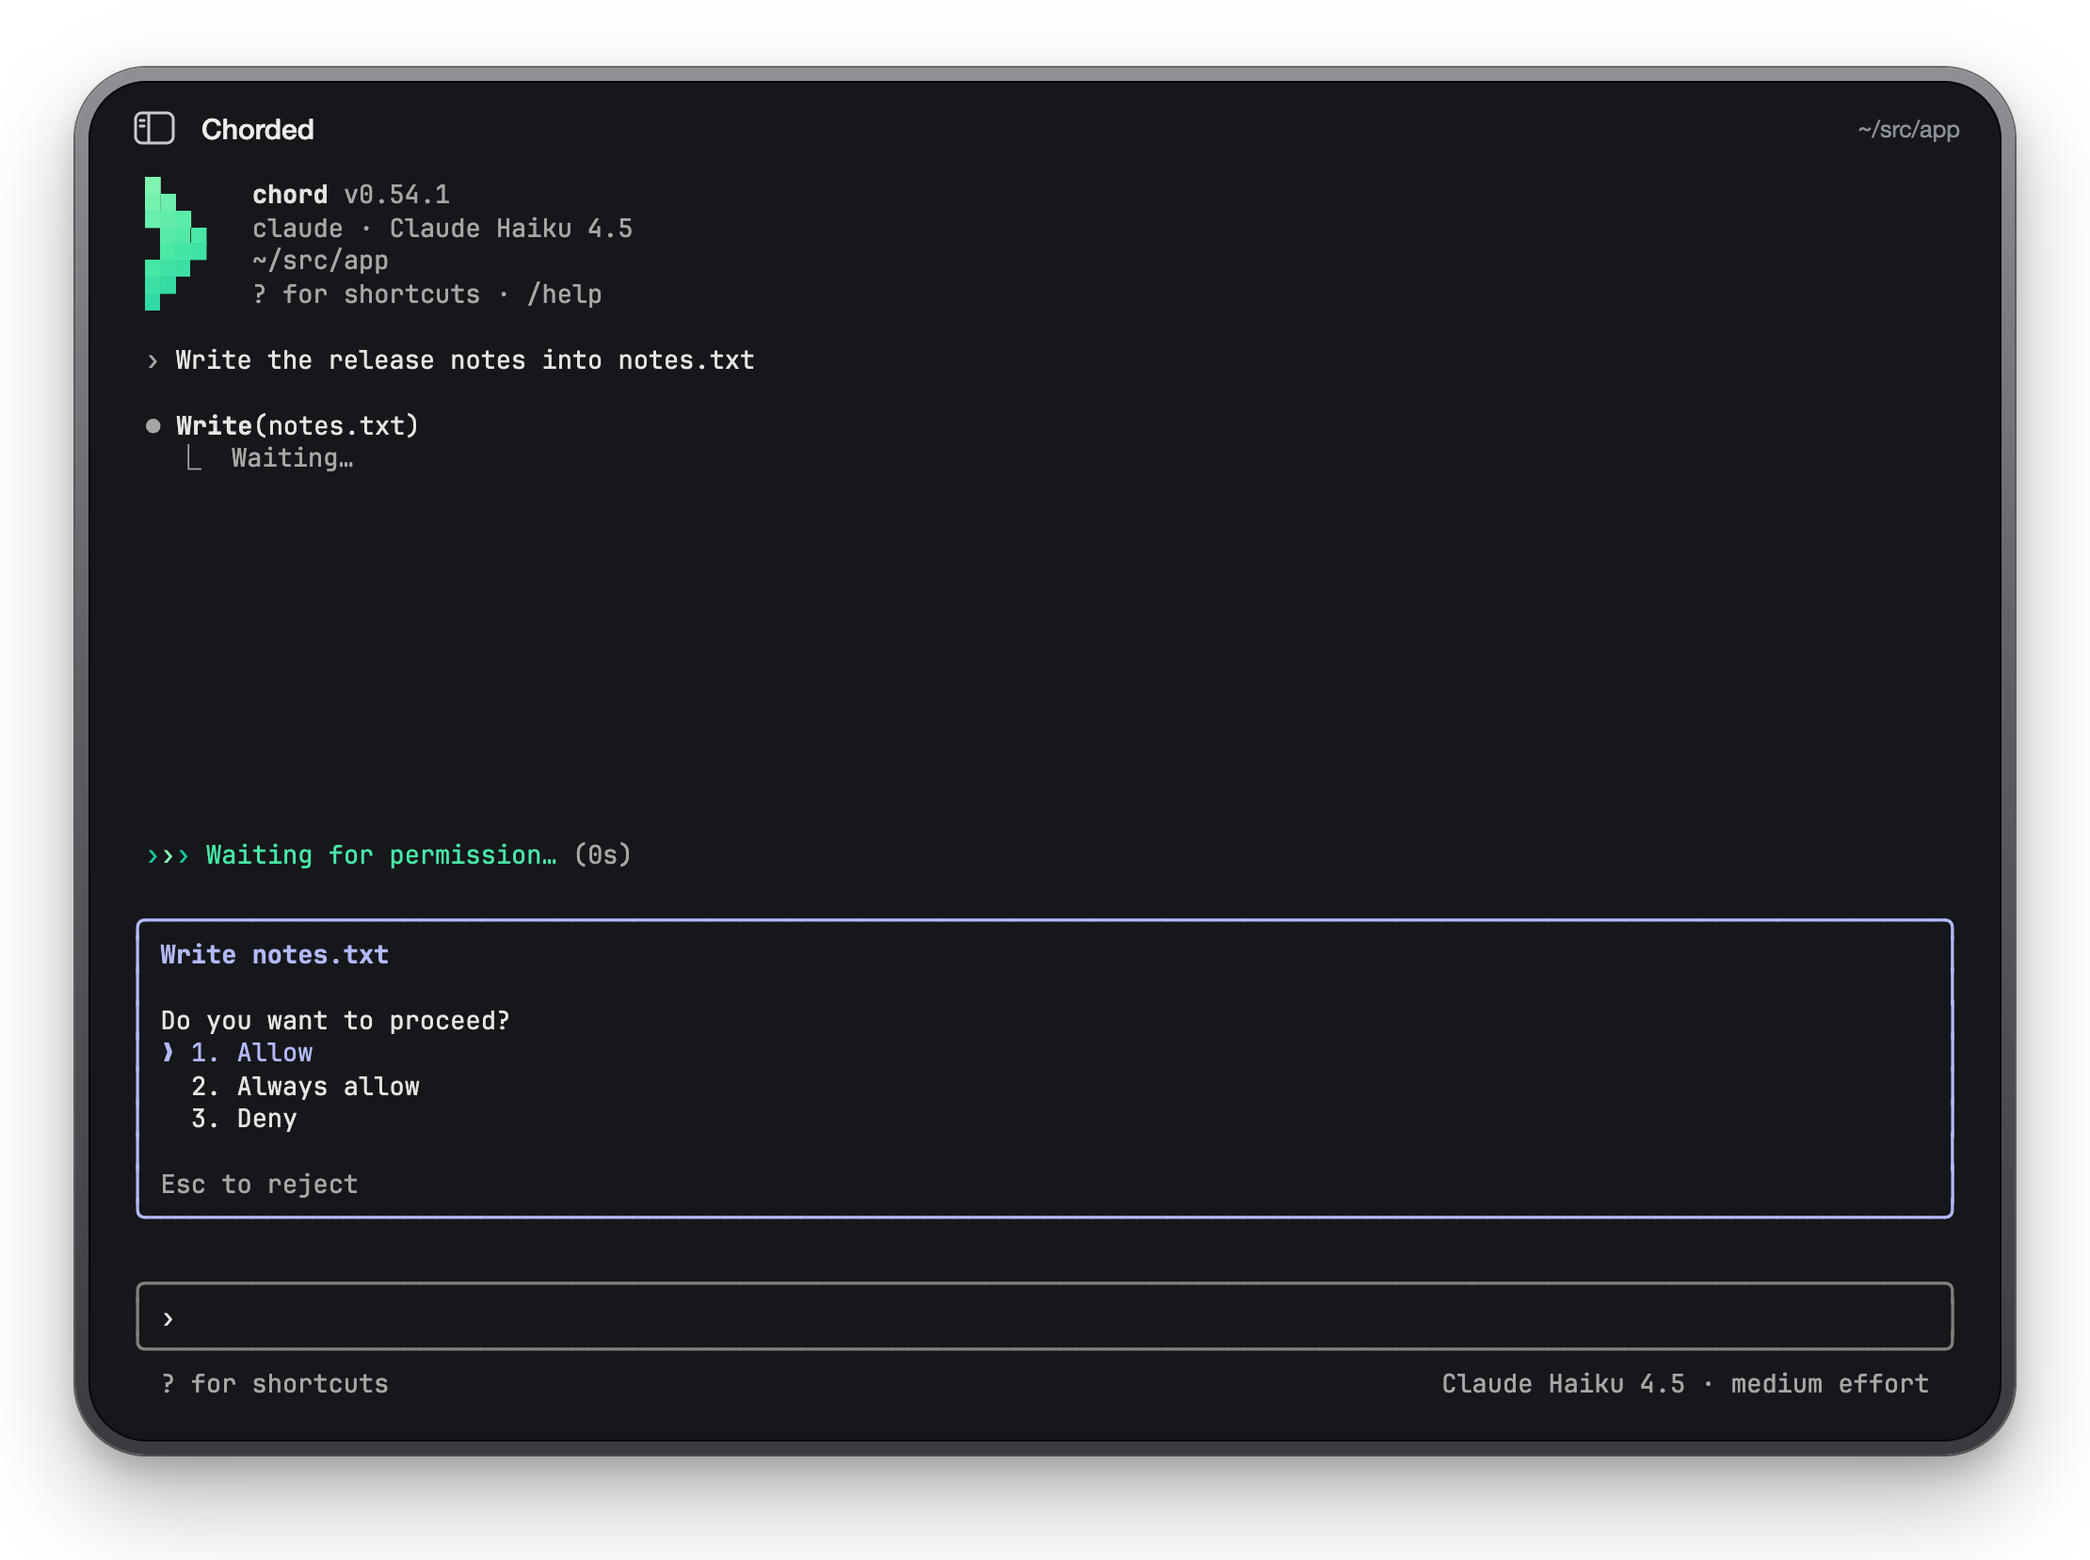
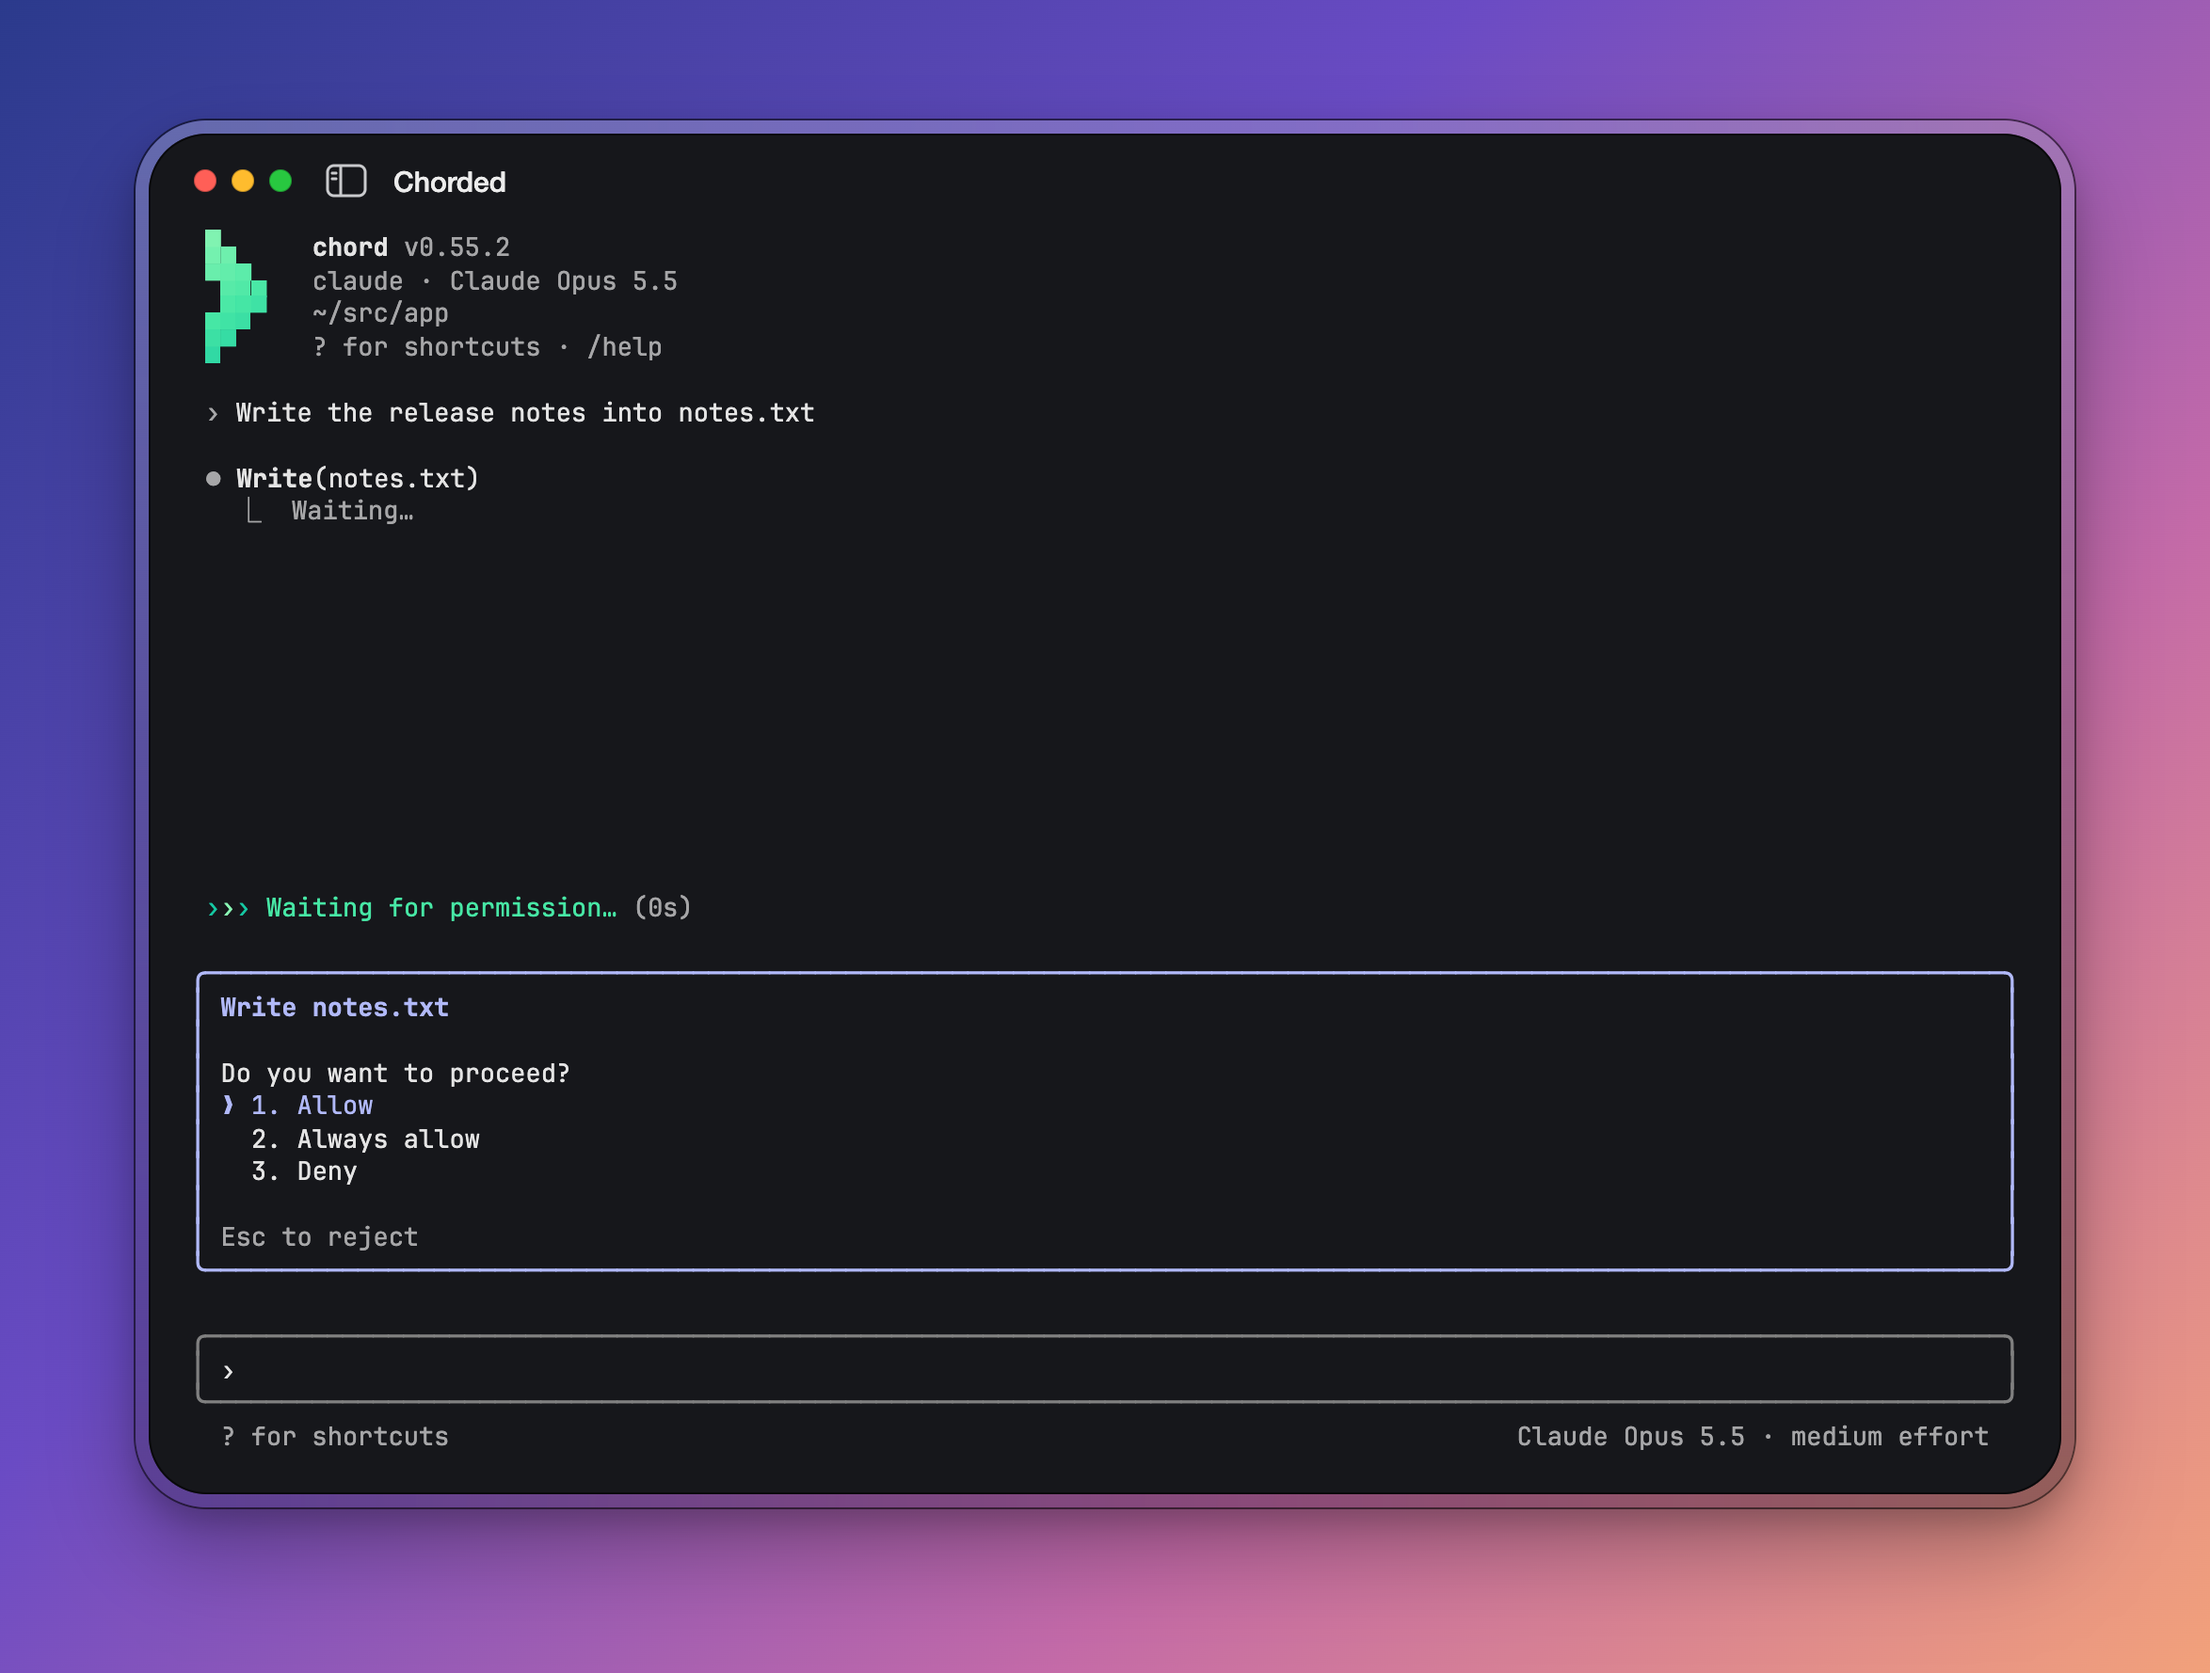
docs(readme): every screenshot retaken in R1's look, on the models chosen (CHD-407 R2)
The README's shots all take tabs.png's window now, on the fake named
claude and codex on Claude Opus 5.5 and GPT-6.1 Sol. The team run shows
its reviewer: the fake's lead opens the members --lead-opens names, the
shots naming all three, and a reviewer waits for the diff. The proposal
proposes the shots' team in short from a file beside the script, through
--propose-team, so the whole of it, models and all, fits the frame. The
fake's defaults, which the tests read, are as they were.

diff --git a/tests/fixtures/fake_agent/scenarios/teams.ts b/tests/fixtures/fake_agent/scenarios/teams.ts
@@ -8,7 +8,9 @@
  * by its part's role, as main.ts reads it, so the job reads as a real one.
  */
 import * as acp from '@agentclientprotocol/sdk';
-import { STEP_MS } from '../options.ts';
+import { readFileSync } from 'node:fs';
+import { parseTeam } from '../../../../src/teams.ts';
+import { LEAD_OPENS, PROPOSE_TEAM, STEP_MS } from '../options.ts';
 import { pause, type Play, type Turn } from '../turn.ts';
 import { callChord, chordClient } from './chord_tools.ts';
 import { TASK_ARGS } from './tasks.ts';
@@ -46,6 +48,17 @@ export const LEAD_REPORT =
   'coder waits for it and will edit src/parse/tokenize.ts only. I will ' +
   "report when the test fails for the bug's own reason.";
 
+/** What the lead opens `reviewer` with. */
+export const REVIEWER_PROMPT =
+  'Read the diff once coder has one, and the test with it. Edit nothing.';
+
+/** What the lead opens each member with, by its name. */
+const MEMBER_PROMPTS: Readonly<Record<string, string>> = {
+  tester: TESTER_PROMPT,
+  coder: CODER_PROMPT,
+  reviewer: REVIEWER_PROMPT,
+};
+
 /** `tester`'s report to its lead. */
 export const TESTER_REPORT =
   'It fails for that reason: "a" at the end of a line comes back as "a, ' +
@@ -59,6 +72,43 @@ export const TESTER_TO_CODER =
 /** `coder`'s message to `tester`. */
 export const CODER_TO_TESTER =
   'Reading src/parse/tokenize.ts now. Tell me when your test fails.';
+
+/** Names as a sentence says them: `tester and coder`, `a, b and c`. */
+function spoken(names: readonly string[]): string {
+  return names.length < 2
+    ? names.join('')
+    : `${names.slice(0, -1).join(', ')} and ${names.at(-1)}`;
+}
+
+/**
+ * The team `propose` proposes: the one `--propose-team` names, read as
+ * chord reads a team file, else the fake's own.
+ */
+function proposedTeam(): ProposedTeam {
+  if (PROPOSE_TEAM === undefined) {
+    return PROPOSED_TEAM;
+  }
+
+  const read = parseTeam(
+    PROPOSED_TEAM.name,
+    readFileSync(PROPOSE_TEAM, 'utf8'),
+    ['claude', 'codex'],
+  );
+
+  if ('problem' in read) {
+    throw new Error(`--propose-team: ${read.problem}`);
+  }
+
+  const { description, lead, members, body } = read.team;
+
+  return {
+    name: PROPOSED_TEAM.name,
+    description,
+    lead,
+    members,
+    body,
+  };
+}
 
 /** A team agent's part, by its session, as main.ts read it off the prompt. */
 export const teamParts = new Map<
@@ -304,6 +354,9 @@ export const CHANGED_EFFORTS_TEAM = {
   ),
 };
 
+/** A team as `propose_team` takes it: the fake's own, or one read from a file. */
+type ProposedTeam = { readonly name: string } & Record<string, unknown>;
+
 /** What the fake proposes after a proposal, the person's words having changed it. */
 type Again = 'proposeagain' | 'proposeeffortsagain';
 
@@ -323,7 +376,7 @@ const SAVE_BOX_MS = 3_600_000;
  */
 async function propose(
   turn: Turn,
-  team: typeof PROPOSED_TEAM,
+  team: ProposedTeam,
   intro: string,
   again: Again = 'proposeagain',
 ): Promise<acp.StopReason> {
@@ -368,7 +421,7 @@ export const TEAMS = {
   propose: (turn) =>
     propose(
       turn,
-      PROPOSED_TEAM,
+      proposedTeam(),
       'A lead on Opus to split the work, and three members, one for each ' +
         'step. Only one of them edits a file at a time.',
     ),
@@ -447,14 +500,12 @@ export const TEAMS = {
     }
 
     try {
-      await callChord(turn, client, 'open_agent', {
-        member: 'tester',
-        prompt: TESTER_PROMPT,
-      });
-      await callChord(turn, client, 'open_agent', {
-        member: 'coder',
-        prompt: CODER_PROMPT,
-      });
+      for (const member of LEAD_OPENS) {
+        await callChord(turn, client, 'open_agent', {
+          member,
+          prompt: MEMBER_PROMPTS[member] ?? 'Wait for my word.',
+        });
+      }
 
       for (const other of others) {
         await callChord(turn, client, 'send_message', {
@@ -469,7 +520,9 @@ export const TEAMS = {
         to: 'main',
         text: LEAD_REPORT,
       });
-      await turn.say("tester and coder are open; I wait for tester's test.");
+      await turn.say(
+        `${spoken(LEAD_OPENS)} are open; I wait for tester's test.`,
+      );
     } finally {
       await client.close();
     }
@@ -527,6 +580,14 @@ export const TEAMS = {
     } finally {
       await client?.close();
     }
+
+    return 'end_turn';
+  },
+
+  // `reviewer`'s first turn, for a lead that opens one: it waits for the diff.
+  async teamreviewer(turn) {
+    await pause(turn.signal, TEAM_STEP_MS * 5);
+    await turn.say("Waiting for coder's diff.");
 
     return 'end_turn';
   },

diff --git a/scripts/dev/screenshots.ts b/scripts/dev/screenshots.ts
@@ -16,7 +16,9 @@
  * of the person's settings, records or teams reaches a shot. There the
  * settings name the fake agent `claude` and `codex`, on Claude Opus 5.5 and
  * GPT-6.1 Sol, which its `--tokens-only` offers, the team the shots run is
- * `screenshots_team.md` beside this script, and the scenario each shot
+ * `screenshots_team.md` beside this script, whose lead opens all three of
+ * its members, `/team new` proposes the same team in short from
+ * `screenshots_proposal.md`, so the whole proposal fits, and the scenario each shot
  * plays comes from `CHORD_FAKE_SCENARIO`, so the prompt typed can be a
  * person's words.
  *
@@ -184,10 +186,17 @@ async function until(text: string, shot: string): Promise<void> {
 async function world(dir: string, team: boolean): Promise<string> {
   const home = join(dir, 'home');
   const project = join(home, 'src', 'app');
+  const teamFile = join(ROOT, 'scripts', 'dev', 'screenshots_team.md');
+  // Its team's lead opens every member, reviewer too, and a proposal is
+  // the same team in short, so the whole of it fits the frame.
   const fake = quote([
     process.execPath,
     join(ROOT, 'tests', 'fixtures', 'fake_agent', 'main.ts'),
     '--tokens-only',
+    '--lead-opens',
+    'tester,coder,reviewer',
+    '--propose-team',
+    join(ROOT, 'scripts', 'dev', 'screenshots_proposal.md'),
   ]);
 
   await mkdir(join(home, '.config', 'chord'), { recursive: true });
@@ -209,10 +218,7 @@ async function world(dir: string, team: boolean): Promise<string> {
     // settings give the fake.
     await writeFile(
       join(project, '.chord', 'teams', 'bugfix.md'),
-      await readFile(
-        join(ROOT, 'scripts', 'dev', 'screenshots_team.md'),
-        'utf8',
-      ),
+      await readFile(teamFile, 'utf8'),
     );
   }
 

diff --git a/tests/fixtures/fake_agent/options.ts b/tests/fixtures/fake_agent/options.ts
@@ -44,6 +44,34 @@ export const STOP_GATE =
 export const SAY_CANCELS =
   ARGS.includes('--say-cancels') || process.env.CHORD_FAKE_SAY_CANCELS === '1';
 
+/** The value given a flag `--name value`, or its environment variable. */
+function valueOf(flag: string, variable: string): string | undefined {
+  const at = ARGS.indexOf(flag);
+
+  return at >= 0 ? ARGS[at + 1] : process.env[variable];
+}
+
+/**
+ * The members a team's lead opens on its first turn, in order: `tester` and
+ * `coder` unless `--lead-opens tester,coder,reviewer` (or
+ * `CHORD_FAKE_LEAD_OPENS`) says, as the README's screenshots ask.
+ */
+export const LEAD_OPENS: readonly string[] = (
+  valueOf('--lead-opens', 'CHORD_FAKE_LEAD_OPENS') ?? 'tester,coder'
+)
+  .split(',')
+  .filter((name) => name !== '');
+
+/**
+ * A team file whose team `propose` proposes in place of its own, with
+ * `--propose-team <file>` or `CHORD_FAKE_PROPOSE_TEAM`: the screenshots'
+ * team, on the models they show.
+ */
+export const PROPOSE_TEAM = valueOf(
+  '--propose-team',
+  'CHORD_FAKE_PROPOSE_TEAM',
+);
+
 const HANGS = ['start', 'config', 'turn'] as const;
 
 function hangStep(): (typeof HANGS)[number] | undefined {

diff --git a/tests/fixtures/fake_agent/main.ts b/tests/fixtures/fake_agent/main.ts
@@ -412,6 +412,7 @@ const SCENARIOS = [
   'teamlead',
   'teamtester',
   'teamcoder',
+  'teamreviewer',
   'propose',
   'proposeagain',
   'proposeefforts',

diff --git a/tests/fixtures/fake_agent/AGENTS.md b/tests/fixtures/fake_agent/AGENTS.md
@@ -149,12 +149,15 @@
   `bugfix` (`tests/fixtures/teams/fake/bugfix.md`, all on the fake runtime)
   with an issue's job; `teamtask` runs `bugfix` and starts `taskchild`, so a
   member and main's task ask at once. A team agent's first prompt plays its
-  role, read off its team part, unless its message names a scenario, which it plays: `teamlead` opens `tester` and `coder`, asks the other runs'
+  role, read off its team part, unless its message names a scenario, which it plays: `teamlead` opens `tester` and `coder`, or the members `--lead-opens
+  tester,coder,reviewer` (`CHORD_FAKE_LEAD_OPENS`) names, asks the other runs'
   leads which files they hold and reports to main, `teamtester` writes a
   test, reports to its lead, messages `coder` directly and asks the person
-  to run the suite, and `teamcoder` messages `tester`; `propose`, or the
+  to run the suite, `teamcoder` messages `tester`, and `teamreviewer` waits
+  for the diff; `propose`, or the
   prompt `/team new` sends, behind any notes chord held for
-  main's next prompt, proposes `bugfix` on claude and codex through
+  main's next prompt, proposes `bugfix` on claude and codex, or the team
+  file `--propose-team <file>` (`CHORD_FAKE_PROPOSE_TEAM`) names, through
   `propose_team` and says where it was saved, and the next prompt after a
   proposal, whatever it says, is `proposeagain`: the same team with the
   reviewer on codex and tester in `bypassPermissions`; `soak` hands

diff --git a/scripts/dev/screenshots_proposal.md b/scripts/dev/screenshots_proposal.md
@@ -1,0 +1,29 @@
+---
+description: Fixes a bug end to end — a failing test first, then the fix, then a review.
+lead:
+  agent: claude
+  model: claude-opus-5-5
+  mode: default
+  instructions: Name the cause and the files, then open tester, coder and reviewer in turn.
+members:
+  - name: tester
+    role: Writes the failing test, then proves the fix
+    agent: claude
+    model: claude-opus-5-5
+    mode: acceptEdits
+    instructions: Write the smallest test that fails for the bug's own reason.
+  - name: coder
+    role: Writes the fix, in the files the lead names
+    agent: codex
+    model: gpt-6.1-sol
+    mode: plan
+    instructions: Make that test pass with the smallest change; never touch tests.
+  - name: reviewer
+    role: Reads the diff and edits nothing
+    agent: claude
+    model: claude-opus-5-5
+    mode: plan
+    instructions: Read the diff against the job and the test; change nothing.
+---
+
+One writer per file at a time. The lead writes to main when the job is done.
